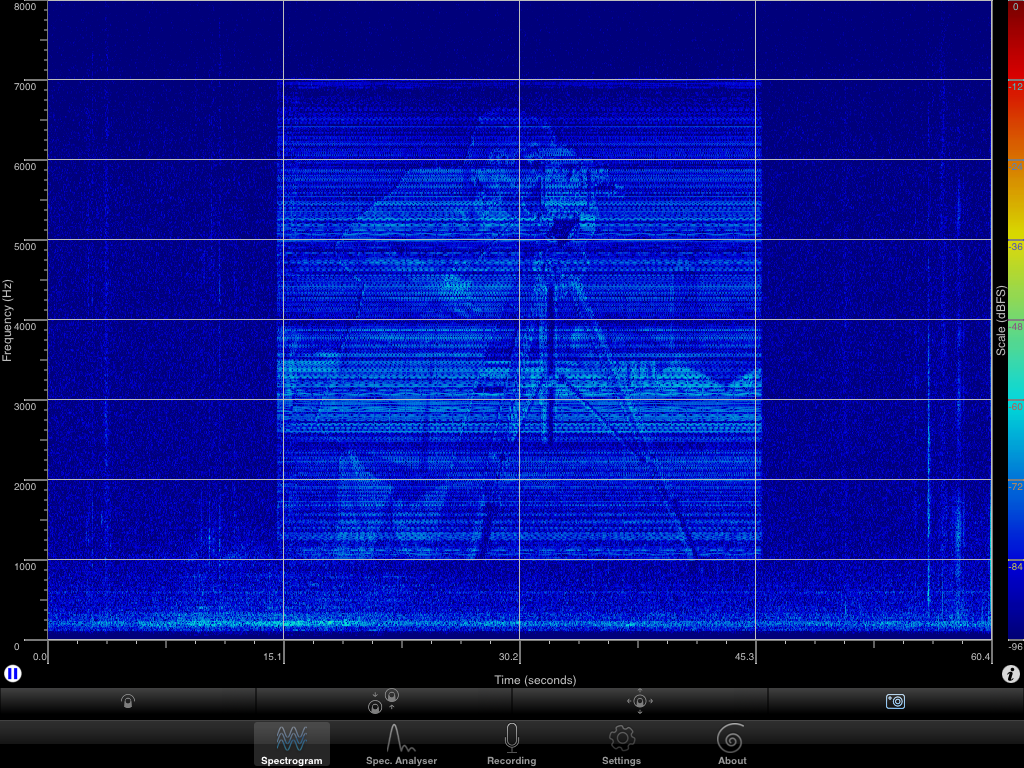
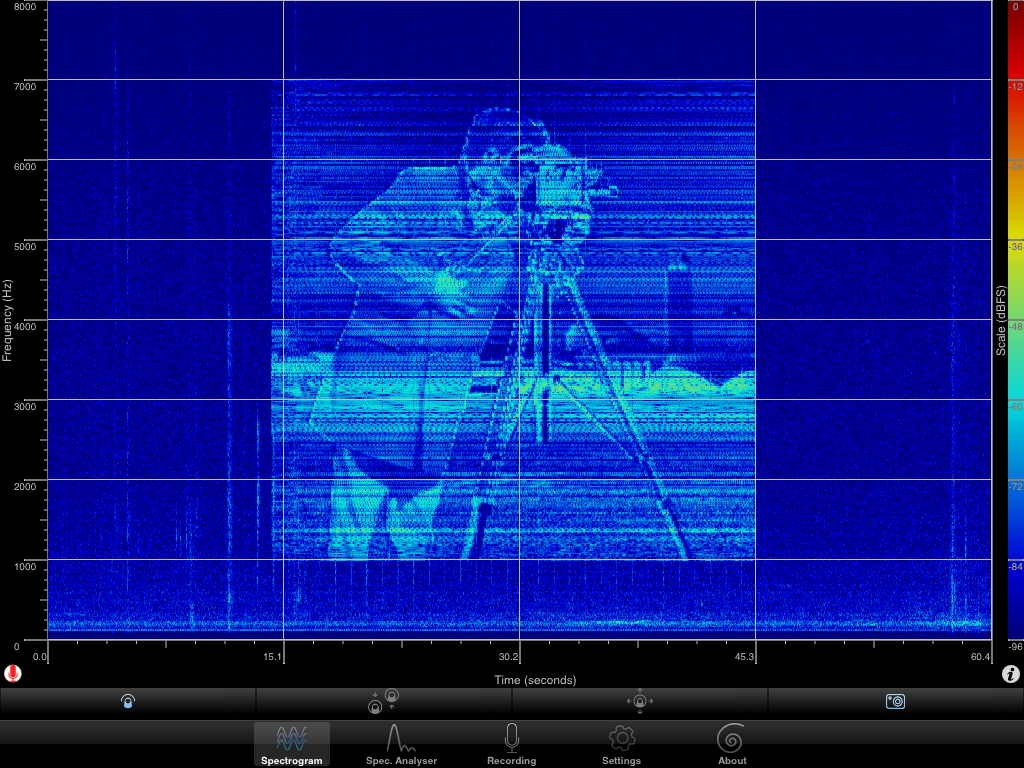
Intensity is now squared for better contrast

diff --git a/spectrum_printer.c b/spectrum_printer.c
@@ -140,7 +140,7 @@ static int pa_callback( const void *inputBuffer,
     float *out = (float*) outputBuffer;
     
     for (int i = 0; i < framesPerBuffer; i++) {
-        float sample = data->sine[data->phase++] * data->intensity / 10.0f;
+        float sample = data->sine[data->phase++] * data->intensity * data->intensity / 10.0f;
         if (data->muted) {
             sample = 0.0f;
         }
